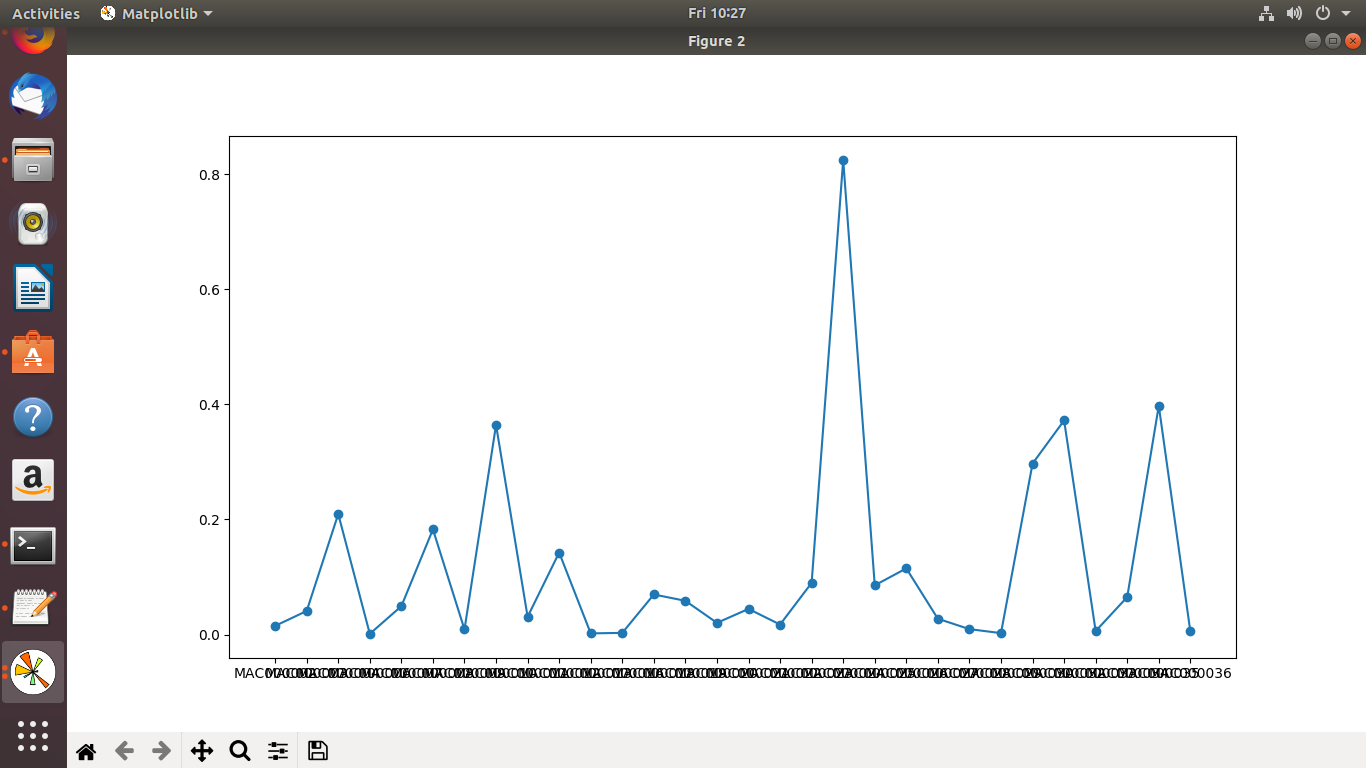
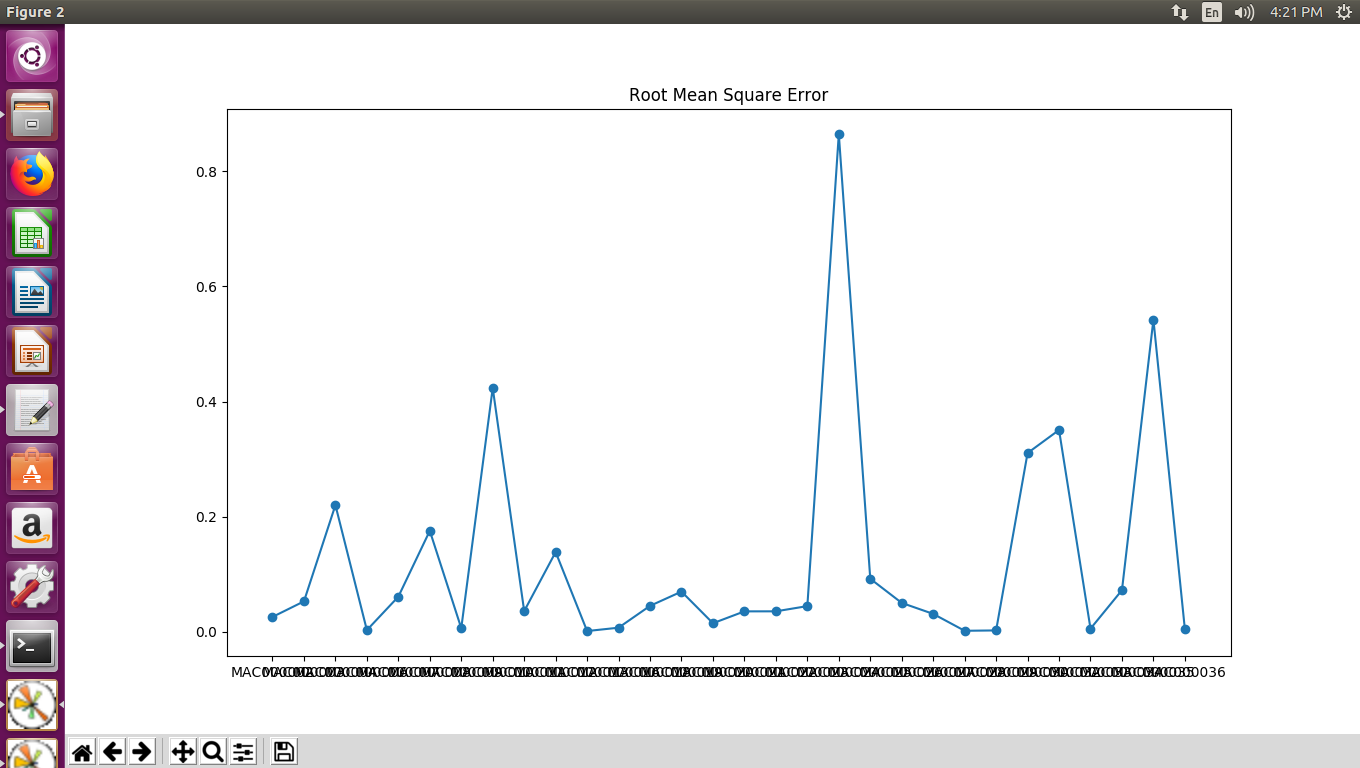
Increase Accuracy

diff --git a/main.py b/main.py
@@ -14,24 +14,24 @@ from statsmodels.tsa.arima_model import ARIMA
 def error_remove(dataset):
 	#group the dataset by date
 	days = dataset.groupby(dataset.index.date)
-	total=[]
+	total=[[] for i in range(24)]
 	#check for inconsistance for the day
 	for name , oneday in days:
 		if(len(oneday)%24==0):
+			pos=0
 			for i in oneday.values:
-				total.append(i)
+				total[pos].append(i)
+				pos=pos+1
 	return total
 
 # arima forecast
-def arima_forecast(dataset):
-	# converting dataset into series
-	dataset_series = to_series(dataset)
+def arima_forecast(dataset_series):
 	# define the model
-	model = ARIMA(dataset_series, order=(7,0,0))
+	model = ARIMA(dataset_series, order=(7,0,0)) #ARIMA:(Autoregressive Integrated Moving Average)
 	# fit the model
 	model_fit = model.fit(disp=False)
 	# make forecast
-	forecast = model_fit.predict(len(dataset_series), len(dataset_series)+23)
+	forecast = model_fit.predict(len(dataset_series), len(dataset_series))
 	return forecast
 			
 # convert list of daily data into a series of total power
@@ -45,10 +45,7 @@ def to_series(data):
 # split a dataset into train/test sets
 def split_dataset(data):
 	# split data into days
-	train, test = data[:-24], data[-24:]
-	# restructure into windows of daily data
-	test = array(split(test, len(test)/24))
-	train = array(split(train, len(train)/24))
+	train, test = data[1:-6], data[-6:]
 	return train, test
 	
 	
@@ -64,7 +61,13 @@ def main():
 	#define list of list to store top electric consumtion householde names
 	top_3_24hour_names = [["1" for x in range(3)] for y in range(24)] 
 
+	mse=[]
+	pyplot.figure(1)
+	names=[]
+	pyplot.title("Each HouseHold Prediction")
+	
 	for name_id,dataset_id in dataset_group_id:
+		names.append(name_id)
 		#resample the dataset into hourly
 		hourly_datagroup_id = dataset_id.resample('H')
 		hourly_dataset_id = hourly_datagroup_id.sum()
@@ -73,21 +76,25 @@ def main():
 		hourly_dataset_id["KWh"]= ma.filled(np.log(ma.masked_equal(hourly_dataset_id["KWh"], 0)), 0)
 		
 		
-		hourly_dataset_id = hourly_dataset_id.loc['2012':'2013']
 		#removing inconsistance of dataset
 		filtered_dataset = error_remove(hourly_dataset_id)
 		
-		#split the dataset
-		train, test = split_dataset(np.array(filtered_dataset))
-	
 		#define hours
 		hours = ['1', '2', '3', '4', '5', '6', '7', '8' , '9' , '10' , '11' , '12' , '13' , '14' , '15' , '16' , '17' , '18' , '19' , '20' , '21' ,'22' ,'23' , '24' ]
-
-
-		predict_id = arima_forecast(train)
+		
+		
+		prediction=[]
+		test=[]
+		for i in range(len(filtered_dataset)):
+			
+			#split the dataset
+			train, tests = split_dataset(np.array(filtered_dataset[i]))
+	
+			predict_id = arima_forecast(train)
 		
 		#convert data again from logarithm form
-		prediction = np.exp(predict_id)
+			prediction.append(np.exp(predict_id))
+			test.append(tests[0])
 	
 		#find the top three household of every hour
 		for i in range(0,len(prediction)):
@@ -105,14 +112,17 @@ def main():
 		pyplot.plot(hours, prediction, marker='o', label=name_id)
 		
 		#for checking the accuracy
-		mse = mean_squared_error(np.exp(test[0]), prediction)
-		print("RMSE(Root Mean Square Error) :"+str(mse))
+		mse.append(mean_squared_error(np.exp(test), prediction))
+		#print("RMSE(Root Mean Square Error) :"+str(mse))
 	#print the household
 	for i in range(len(top_3_24hour_kwh)):
 		print("Hour : "+str(i+1)+"\n")
 		for j in range(0,3):
 			print("Rank : "+str(j)+" HouseHold: "+top_3_24hour_names[i][j]+" Kwh: "+str(top_3_24hour_kwh[i][j])+"\n")
 	pyplot.legend()
+	pyplot.figure(2)
+	pyplot.title("Root Mean Square Error")
+	pyplot.plot(names, mse, marker='o', label="Root Mean Square Error")
 	pyplot.show()
 if __name__ == '__main__':
     main()
